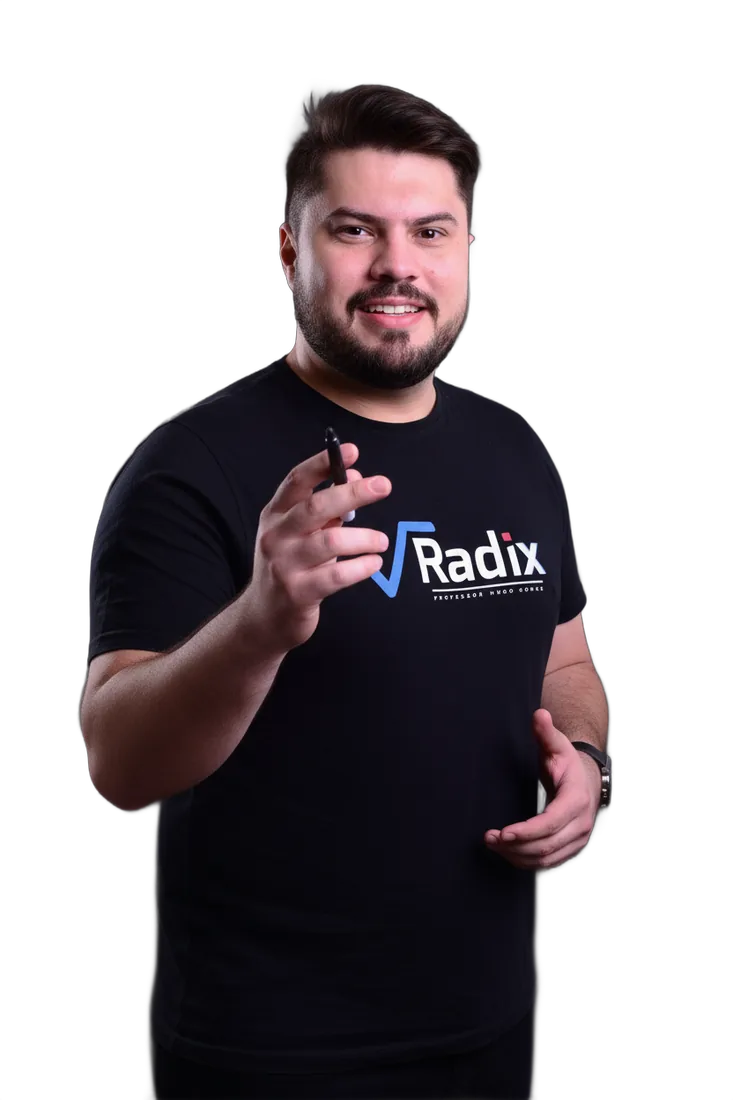
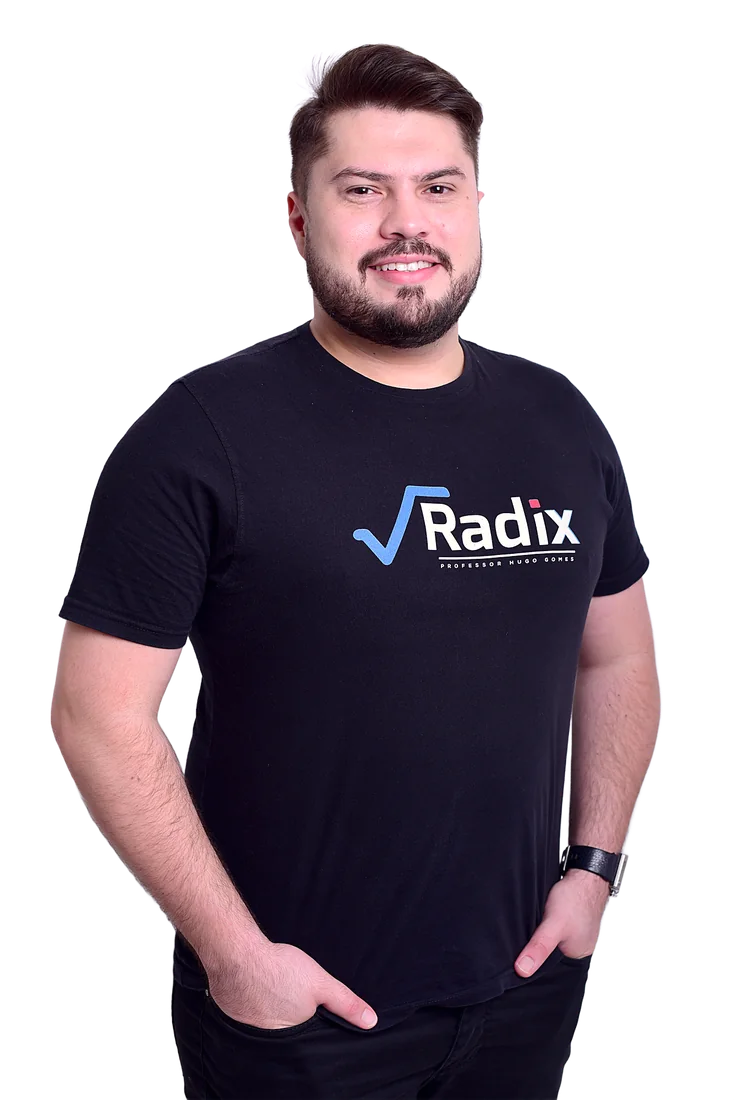
matematica: fotos reais do estudio e caixa da nota TRI fora do rosto

Changed region(s): [[0.06, 0.0309, 0.9004, 1.0], [0.2401, 0.4327, 0.3001, 0.4636], [0.6003, 0.9582, 0.6303, 0.9891]]

diff --git a/matematica.html b/matematica.html
@@ -91,7 +91,7 @@ h2{font-size:clamp(26px,3.4vw,40px);line-height:1.12;font-weight:800;margin-top:
 .hero-photo .sign{position:absolute;left:-6px;bottom:64px;background:rgba(10,19,41,.88);backdrop-filter:blur(8px);-webkit-backdrop-filter:blur(8px);border:1px solid var(--line);border-radius:14px;padding:12px 16px}
 .hero-photo .sign b{display:block;font-family:var(--display);font-size:17px}
 .hero-photo .sign span{font-size:13px;color:var(--muted)}
-.hero-photo .float{position:absolute;right:-4px;top:22%;background:rgba(10,19,41,.88);backdrop-filter:blur(8px);-webkit-backdrop-filter:blur(8px);border:1px solid rgba(34,211,238,.4);border-radius:14px;padding:12px 16px;text-align:left}
+.hero-photo .float{position:absolute;right:-8px;bottom:150px;background:rgba(10,19,41,.88);backdrop-filter:blur(8px);-webkit-backdrop-filter:blur(8px);border:1px solid rgba(34,211,238,.4);border-radius:14px;padding:12px 16px;text-align:left}
 .hero-photo .float small{display:block;font-size:11px;letter-spacing:.1em;font-weight:800;color:var(--muted);text-transform:uppercase}
 .hero-photo .float b{font-family:var(--display);font-size:28px;color:var(--cyan);line-height:1.1}
 .hero-photo .float span{display:block;font-size:12.5px;color:var(--text-2)}
@@ -186,8 +186,8 @@ h2{font-size:clamp(26px,3.4vw,40px);line-height:1.12;font-weight:800;margin-top:
 .tri-num{display:flex;flex-wrap:wrap;gap:22px;margin-top:22px}
 .tri-num b{display:block;font-family:var(--display);font-size:32px;color:var(--cyan);line-height:1}
 .tri-num span{font-size:13px;color:var(--muted)}
-.tri-photo{min-height:300px;background:url(mat27-hugo-tri.webp) center 20%/cover no-repeat;position:relative}
-.tri-photo::after{content:"";position:absolute;inset:0;background:linear-gradient(to right,#122450 0%,rgba(18,36,80,0) 45%)}
+.tri-photo{min-height:300px;background:url(mat27-hugo-tri.webp) right bottom/contain no-repeat;position:relative;margin-top:10px}
+.tri-photo::after{content:none}
 
 /* ====== Módulos ====== */
 .mods{display:grid;grid-template-columns:1fr;gap:12px;margin-top:30px}
@@ -208,7 +208,7 @@ h2{font-size:clamp(26px,3.4vw,40px);line-height:1.12;font-weight:800;margin-top:
 
 /* ====== Professor ====== */
 .prof{display:grid;grid-template-columns:1fr;gap:30px;align-items:center;margin-top:10px}
-.prof-photo{position:relative;border-radius:24px;overflow:hidden;background:#1b2440;max-width:460px;justify-self:center;width:100%}
+.prof-photo{position:relative;border-radius:24px;overflow:hidden;background:radial-gradient(120% 80% at 50% 25%,#2a4580,#14244c 70%);padding-top:28px;max-width:460px;justify-self:center;width:100%}
 .prof-photo img{width:100%;height:auto}
 .prof-photo .cap{position:absolute;left:14px;right:14px;bottom:14px;background:rgba(10,19,41,.85);backdrop-filter:blur(8px);-webkit-backdrop-filter:blur(8px);border-radius:14px;padding:12px 14px;font-size:13.5px;color:var(--text-2)}
 .prof-photo .cap b{color:var(--text)}
@@ -258,7 +258,7 @@ h2{font-size:clamp(26px,3.4vw,40px);line-height:1.12;font-weight:800;margin-top:
 .final-grid{display:grid;grid-template-columns:1fr;gap:10px;align-items:end}
 .final-copy{padding:60px 0 30px}
 .final-copy h2{max-width:18ch}
-.final-photo{justify-self:center;width:min(360px,80%)}
+.final-photo{justify-self:center;width:min(560px,100%)}
 .final-photo img{width:100%;height:auto;-webkit-mask-image:linear-gradient(to bottom,#000 72%,transparent);mask-image:linear-gradient(to bottom,#000 72%,transparent)}
 footer{background:var(--bg-deep);border-top:1px solid var(--line);padding:30px 0 96px;font-size:14px;color:var(--muted)}
 footer .wrap{display:flex;flex-wrap:wrap;justify-content:space-between;gap:14px}
@@ -291,7 +291,7 @@ footer a{color:var(--text-2)}
   .flow{grid-template-columns:repeat(4,1fr)}
   .prof{grid-template-columns:.85fr 1.15fr;gap:56px}
   .plans{grid-template-columns:1fr 1fr;max-width:900px}
-  .final-grid{grid-template-columns:1.3fr .7fr}
+  .final-grid{grid-template-columns:1fr 1fr}
   .final-copy{padding:80px 0 80px}
   .mbar{display:none}
   footer{padding-bottom:30px}
@@ -346,7 +346,7 @@ footer a{color:var(--text-2)}
         <p class="microcopy">Presencial em Mossoró ou online, de qualquer lugar. A plataforma vem nos dois.</p>
       </div>
       <div class="hero-photo">
-        <img src="mat27-hugo-hero.webp" width="733" height="1100" alt="Prof. Hugo Gomes, de camisa preta do Radix, apontando para a frente" fetchpriority="high">
+        <img src="mat27-hugo-hero.webp" width="734" height="1100" alt="Prof. Hugo Gomes sorrindo, de camisa preta do Radix, com as mãos nos bolsos" fetchpriority="high">
         <div class="float"><small>Nota TRI</small><b>como o INEP</b><span>no simulado da plataforma</span></div>
         <div class="sign"><b>Prof. Hugo Gomes</b><span>Fundador do Radix · desde 2010</span></div>
       </div>
@@ -544,7 +544,7 @@ footer a{color:var(--text-2)}
           <div><b>99,9%</b><span>das notas a menos de 0,5 ponto</span></div>
         </div>
       </div>
-      <div class="tri-photo" role="img" aria-label="Prof. Hugo Gomes, pensativo, com a mão no queixo"></div>
+      <div class="tri-photo" role="img" aria-label="Prof. Hugo Gomes, pensativo, com a mão no queixo e o celular na mão"></div>
     </div>
 
     <!-- Outras ferramentas -->
@@ -601,7 +601,7 @@ footer a{color:var(--text-2)}
   <div class="wrap">
     <div class="prof">
       <div class="prof-photo">
-        <img src="mat27-hugo-sobre.webp" width="667" height="1000" alt="Prof. Hugo Gomes sorrindo, com as mãos nos bolsos e a camisa do Radix" loading="lazy">
+        <img src="mat27-hugo-sobre.webp" width="686" height="1000" alt="Prof. Hugo Gomes de óculos e blazer preto sobre a camisa do Radix" loading="lazy">
         <div class="cap"><b>Hugo Gomes</b> · professor de Matemática e fundador do Radix</div>
       </div>
       <div>
@@ -709,7 +709,7 @@ footer a{color:var(--text-2)}
           <a class="btn btn-ghost" data-wa href="#">Falar no WhatsApp</a>
         </div>
       </div>
-      <div class="final-photo"><img src="mat27-hugo-cta.webp" width="708" height="900" alt="Prof. Hugo Gomes explicando, com a mão levantada" loading="lazy"></div>
+      <div class="final-photo"><img src="mat27-hugo-cta.webp" width="1372" height="900" alt="Prof. Hugo Gomes de óculos, com o dedo indicador apontando para cima" loading="lazy"></div>
     </div>
   </div>
 </section>
